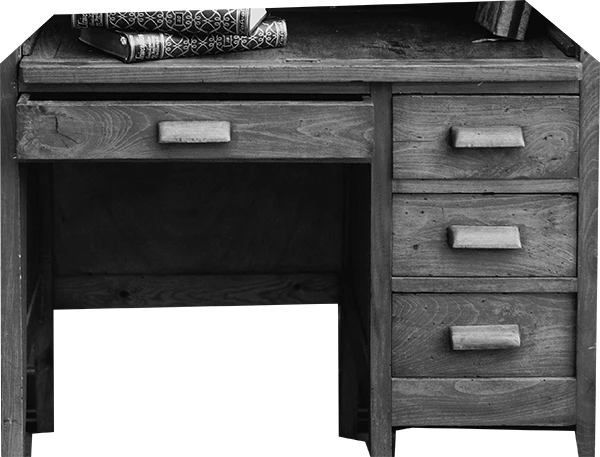
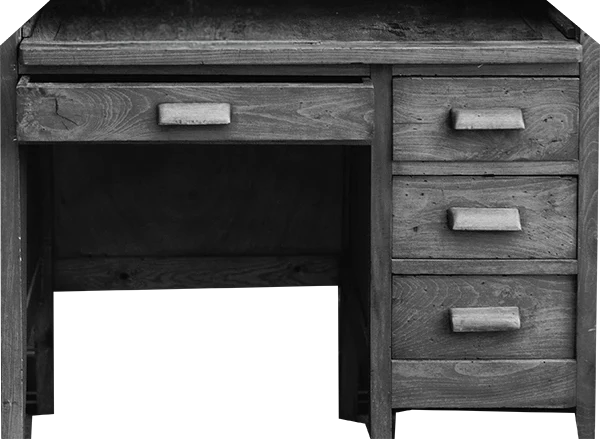
change assets

diff --git a/src/scenes/Game.js b/src/scenes/Game.js
@@ -70,7 +70,7 @@ export class Game extends Phaser.Scene {
             .setOrigin(0.5).setAlpha(0).setVisible(false);
 
         this.folhaCasaco = this.add.image(0, -120, 'folha-casaco')
-            .setOrigin(0.5).setAlpha(0).setVisible(false);
+            .setOrigin(0.5).setScale(0.9).setAlpha(0).setVisible(false);
 
         this.bolsoGroup = this.add.container(15, 200, [
             this.folhaCasaco,
@@ -84,38 +84,32 @@ export class Game extends Phaser.Scene {
 
         // ── Sala 1 — Mesa + Globo ────────────────────────────
         this.add.image(R1 + cx, 780, 'mesa').setOrigin(0.5);
-        this.add.image(R1 + cx + 50, 200, 'suprematismo').setOrigin(0.5).setScale(0.5);
-
-        // poster — texto no lugar da imagem por enquanto
-        this.add.text(R1 + cx - 130, 320, '"Quem não se move,\nnão descobre o\npeso do mundo."', {
-            fontSize: '16px',
-            fontFamily: 'Georgia, serif',
-            fontStyle: 'italic',
-            color: '#e5e7db',
-            align: 'center',
-            wordWrap: { width: 180 },
-            lineSpacing: 6,
-        }).setOrigin(0.5);
+        this.add.image(R1 + cx + 50, 200, 'poster').setOrigin(0.5).setScale(0.55);
 
         // máquina como decoração (não interativa)
         // this.add.image(R1 + cx - 60, 590, 'maquina').setOrigin(0.5).setScale(0.75);
 
         // vaso como decoração (não interativo)
-        this.add.image(R1 + cx + 190, 610, 'vaso').setOrigin(0.5).setScale(0.5);
+        this.add.image(R1 + cx + 140, 500, 'vaso').setOrigin(0.5).setScale(0.5);
 
-        // folhaGlobo — fica sob o globo, começa invisível — usa asset folha-maquina
-        this.folhaGlobo = this.add.image(R1 + cx + 60, 630, 'folha-maquina')
+        // folhaGlobo — pista, fica atrás do globo no container (ordem importa)
+        this.folhaGlobo = this.add.image(0, 90, 'pista-globo')
             .setOrigin(0.5)
             .setScale(0.4)
-            .setVisible(false);
+            .setAlpha(0);
 
-        // globo — interativo
-        this.globo = this.add.image(R1 + cx + 60, 590, 'globo')
+        // globo — interativo, renderizado na frente por ser adicionado depois
+        this.globo = this.add.image(0, 0, 'globo')
             .setOrigin(0.5)
             .setScale(0.55)
             .setInteractive(new Phaser.Geom.Rectangle(0, 0, 300, 420), Phaser.Geom.Rectangle.Contains);
-        //  Rectangle — coords na imagem bruta (300×420)
         this.globo.on('pointerdown', () => this.onGloboTap());
+
+        // container — mover globoGroup reposiciona globo e pista juntos
+        this.globoGroup = this.add.container(R1 + cx - 100, 480, [
+            this.folhaGlobo,
+            this.globo,
+        ]);
 
         // ── Sala 2 — Estante ─────────────────────────────────
         this.estante = this.add.image(0, 0, 'estante').setOrigin(0.5).setScale(0.7);
@@ -221,22 +215,21 @@ export class Game extends Phaser.Scene {
 
         this.tweens.add({
             targets:  this.globo,
-            y:        '-=130',
+            x:        '+=130',
             duration: 500,
             ease:     'Power2',
+        });
+        this.tweens.add({
+            targets:  this.folhaGlobo,
+            alpha:    1,
+            duration: 400,
+            delay:    100,
+            ease:     'Sine.easeIn',
             onComplete: () => {
-                this.folhaGlobo.setVisible(true).setAlpha(0);
-                this.tweens.add({
-                    targets:  this.folhaGlobo,
-                    alpha:    1,
-                    duration: 400,
-                    onComplete: () => {
-                        this.folhaGlobo.setInteractive();
-                        this.folhaGlobo.on('pointerdown', () => this.onFolhaGloboTap());
-                        this.folhaGloboGlow = this.addPersistentGlow(this.folhaGlobo);
-                        if (DEBUG) this.input.enableDebug(this.folhaGlobo);
-                    }
-                });
+                this.folhaGlobo.setInteractive();
+                this.folhaGlobo.on('pointerdown', () => this.onFolhaGloboTap());
+                this.folhaGloboGlow = this.addPersistentGlow(this.folhaGlobo);
+                if (DEBUG) this.input.enableDebug(this.folhaGlobo);
             }
         });
     }
@@ -388,14 +381,15 @@ export class Game extends Phaser.Scene {
         this.popupOverlay = this.add.rectangle(cx, cy, width, height, 0x000000, 0.75)
             .setScrollFactor(0).setVisible(false).setDepth(10);
 
-        this.popupBox = this.add.rectangle(cx, cy, width - 60, 340, 0x111111)
+        this.popupBox = this.add.image(cx, cy, 'papel-tex')
+            .setDisplaySize(width - 60, 340)
             .setScrollFactor(0).setVisible(false).setDepth(11);
 
         this.popupQuote = this.add.text(cx, cy - 70, '', {
             fontSize: '20px',
             fontFamily: 'Georgia, serif',
             fontStyle: 'italic',
-            color: '#e5e7db',
+            color: '#2c1810',
             align: 'center',
             wordWrap: { width: width - 100 },
             lineSpacing: 10,
@@ -404,7 +398,7 @@ export class Game extends Phaser.Scene {
         this.popupInstruction = this.add.text(cx, cy + 60, '', {
             fontSize: '18px',
             fontFamily: 'sans-serif',
-            color: '#a8a9ab',
+            color: '#5a4a3a',
             align: 'center',
             wordWrap: { width: width - 120 },
         }).setOrigin(0.5).setScrollFactor(0).setVisible(false).setDepth(12);
@@ -420,7 +414,7 @@ export class Game extends Phaser.Scene {
         this.popupClose = this.add.text(width - 60, cy - 140, '✕', {
             fontSize: '24px',
             fontFamily: 'sans-serif',
-            color: '#a8a9ab',
+            color: '#5a4a3a',
         }).setOrigin(0.5).setScrollFactor(0).setVisible(false).setDepth(12);
         this.popupClose.setInteractive(
             new Phaser.Geom.Rectangle(-15, -15, 50, 50),

diff --git a/src/scenes/Preload.js b/src/scenes/Preload.js
@@ -22,8 +22,8 @@ export class Preload extends Phaser.Scene {
         this.load.image('mesa',          'assets/mesa.webp');
         this.load.image('maquina',       'assets/maquina.webp');
         this.load.image('folha-maquina', 'assets/folha-maquina.webp');
-        this.load.image('estante',       'assets/estante.webp');
-        this.load.image('livros',        'assets/livros.webp');
+        this.load.image('estante',       'assets/estante2.webp');
+        this.load.image('livros',        'assets/livros2.webp');
         this.load.image('vaso',          'assets/vaso.webp');
         this.load.image('seta',          'assets/seta-2.png');
         this.load.image('rosa-ilustra',  'assets/rosa-ilustra.png');
@@ -31,10 +31,12 @@ export class Preload extends Phaser.Scene {
         this.load.image('chave',         'assets/chave.webp');
         this.load.image('porta-aberta',  'assets/porta-aberta.png');
         this.load.image('logo',          'assets/logo.webp');
-        this.load.image('suprematismo',  'assets/suprematismo.webp');
+        this.load.image('papel-tex',     'assets/papel-tex.webp');
+        this.load.image('pista-globo',   'assets/pista-globo.webp');
+        this.load.image('poster',  'assets/poster.webp');
         this.load.image('chapeu',        'assets/chapeu.webp');
         this.load.image('chao',          'assets/chao-pb.webp');
-        this.load.image('globo',         'assets/globo.webp');
+        this.load.image('globo',         'assets/globo2.webp');
         this.load.audio('maquina-plim',  'assets/audio/maquina-plim.mp3');
     }
 
